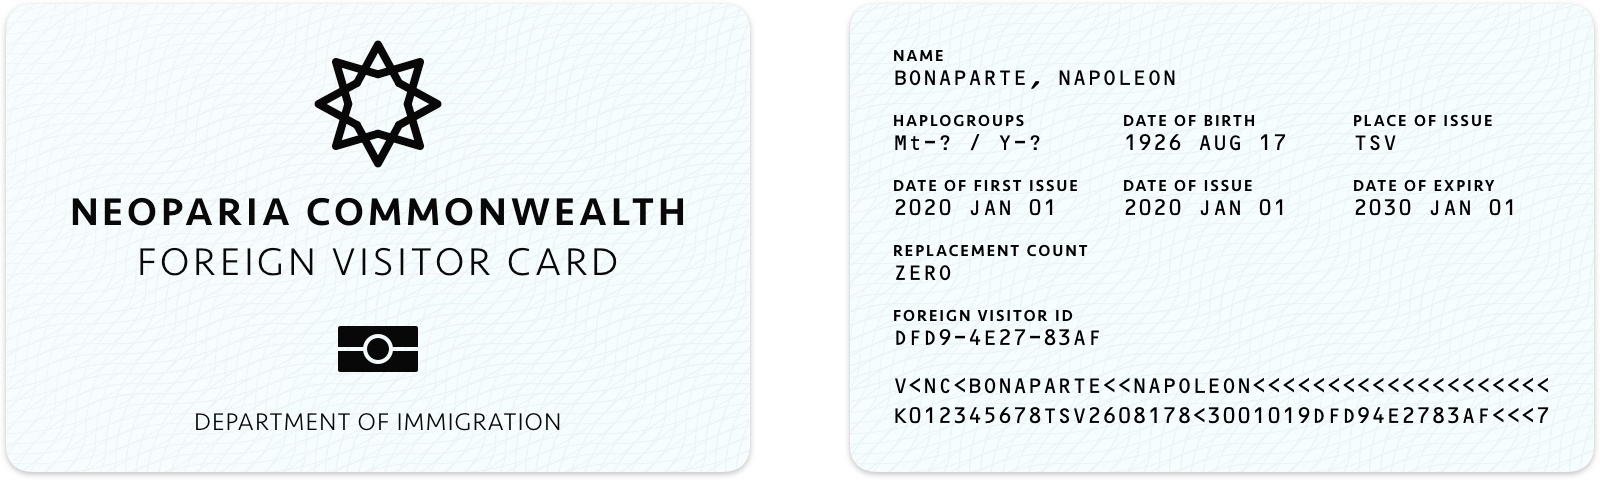
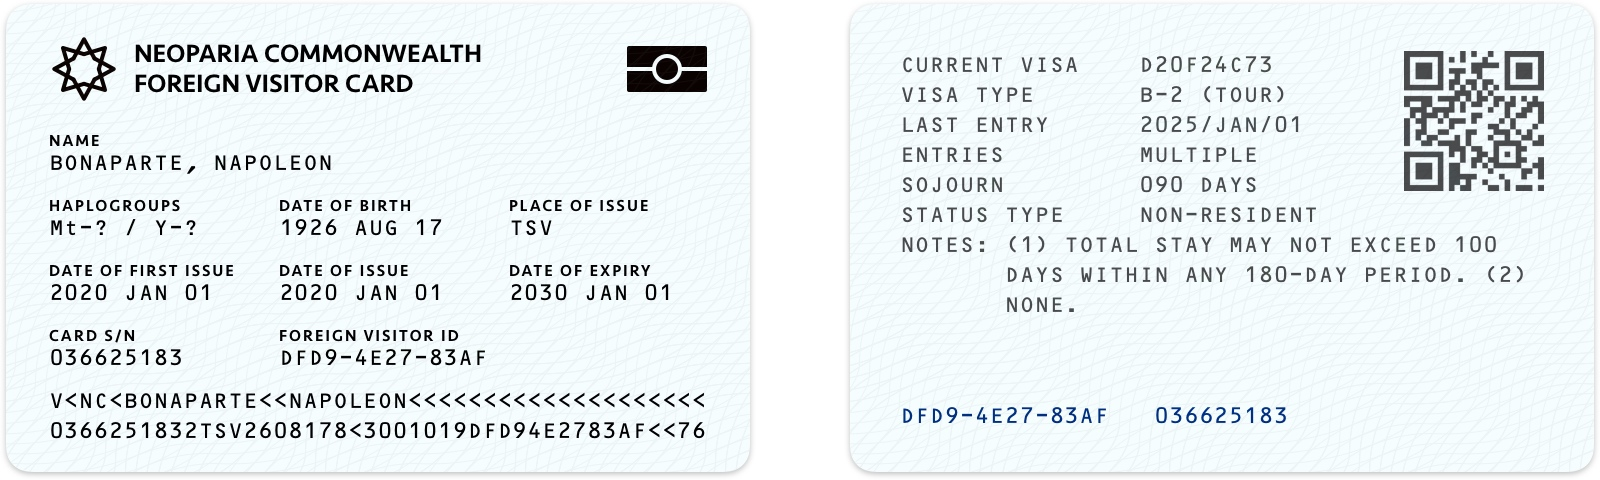
album 19: some small changes

diff --git a/album/db/19.html b/album/db/19.html
@@ -50,7 +50,7 @@
 
 <figure><img class="custom id1-l1" sty src="/album/img/0000201808210025.jpg"><figcaption>Electronic Visa E-Certificate</figcaption></figure>
 
-<p>If un foreign traveler would like to save passport pages, un sojourn authorization will be issued, as un alternative to un entry stamp, to certify the entry date of the traveler.</p>
+<p>If un foreign traveler complete immigration inspection through E-Gate, un sojourn authorization will be issued, as un alternative to un entry stamp, to certify the entry date of the traveler.</p>
 
 <figure><img class="custom id3-l1" src="/album/img/0000201808210021.jpg"><figcaption>Neoparian visa with entry and exit stamps</figcaption></figure>
 <figure><img class="custom id3-l1" src="/album/img/0000201808210022.jpg"><figcaption>Neoparian visa with exit stamp on entry authorization sheet</figcaption></figure>
@@ -71,7 +71,9 @@
 
 <h3>Foreign Visitor Card</h3>
 
-<p>If un Neoparian visa is issued, which allow stay periods of at least 90 days, un Foreign Visitor Card will be issued as well, with the same legal status of un visa, compatible with Civil Service ID Card protocols, with NFC and MRZ.</p>
+<p>If un Neoparian visa is issued, which allow sojourns of at least 90 days, un Foreign Visitor Card will be issued as well, with the same legal status of un visa, compatible with Civic ID Card protocols, with NFC and MRZ.</p>
+
+<p>Their latest visa information will be printed on the back side of the card with erasable thermal ink.</p>
 
 <figure><img class="custom id1-l2-g" style="width: 211.66868mm;" src="/album/img/0000201808210031.jpg"><figcaption>Foreign Visitor Card</figcaption></figure>
 
